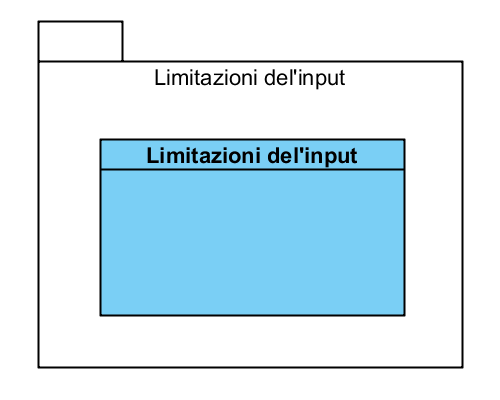
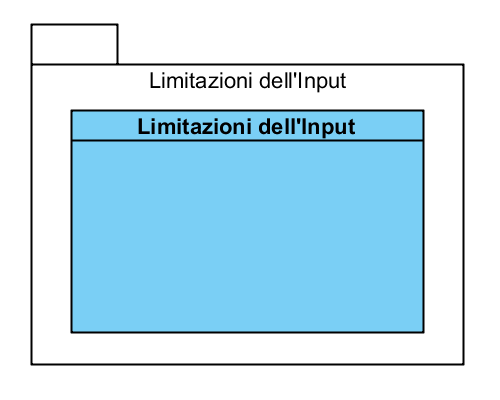
fix package

Changed region(s): [[0.12, 0.27, 0.87, 0.84], [0.06, 0.03, 0.93, 0.93]]

diff --git a/LaTex/documenti/SpecificaTecnica/capitolo-arc-framework.tex b/LaTex/documenti/SpecificaTecnica/capitolo-arc-framework.tex
@@ -12,6 +12,12 @@ L'architettura che abbiamo scelto per la progettazione del framework è del tipo
 \subsection{Model}
 Nella scomposizione logica in MVC la parte relativa al model, ossia la business logic dell'applicativo, è delegata alla bubble memory e ai pacchetti di metodi che compongono il framework. Questi metodi possono essere combinati tra loro e legati all'interfaccia grafica mediante il controller.
 
+\begin{figure}[H]
+	\centering
+	\includegraphics[width=14cm]{diagrammi_img/classi_e_package/framework_api_package.png}
+	\caption{Architettura framework model api}
+\end{figure}
+
 \subsection{Bubble Memory}
 La componente di bubble memory gestisce la parte di persistenza della bubble in locale, tenendo traccia di variabili e del loro valore, incluso lo stato della bubble. La bubble memory è strutturata come un oggetto JavaScript, non avendo così vincoli relativamente al tipo di informazioni che è possibile inserire al suo interno.
 
